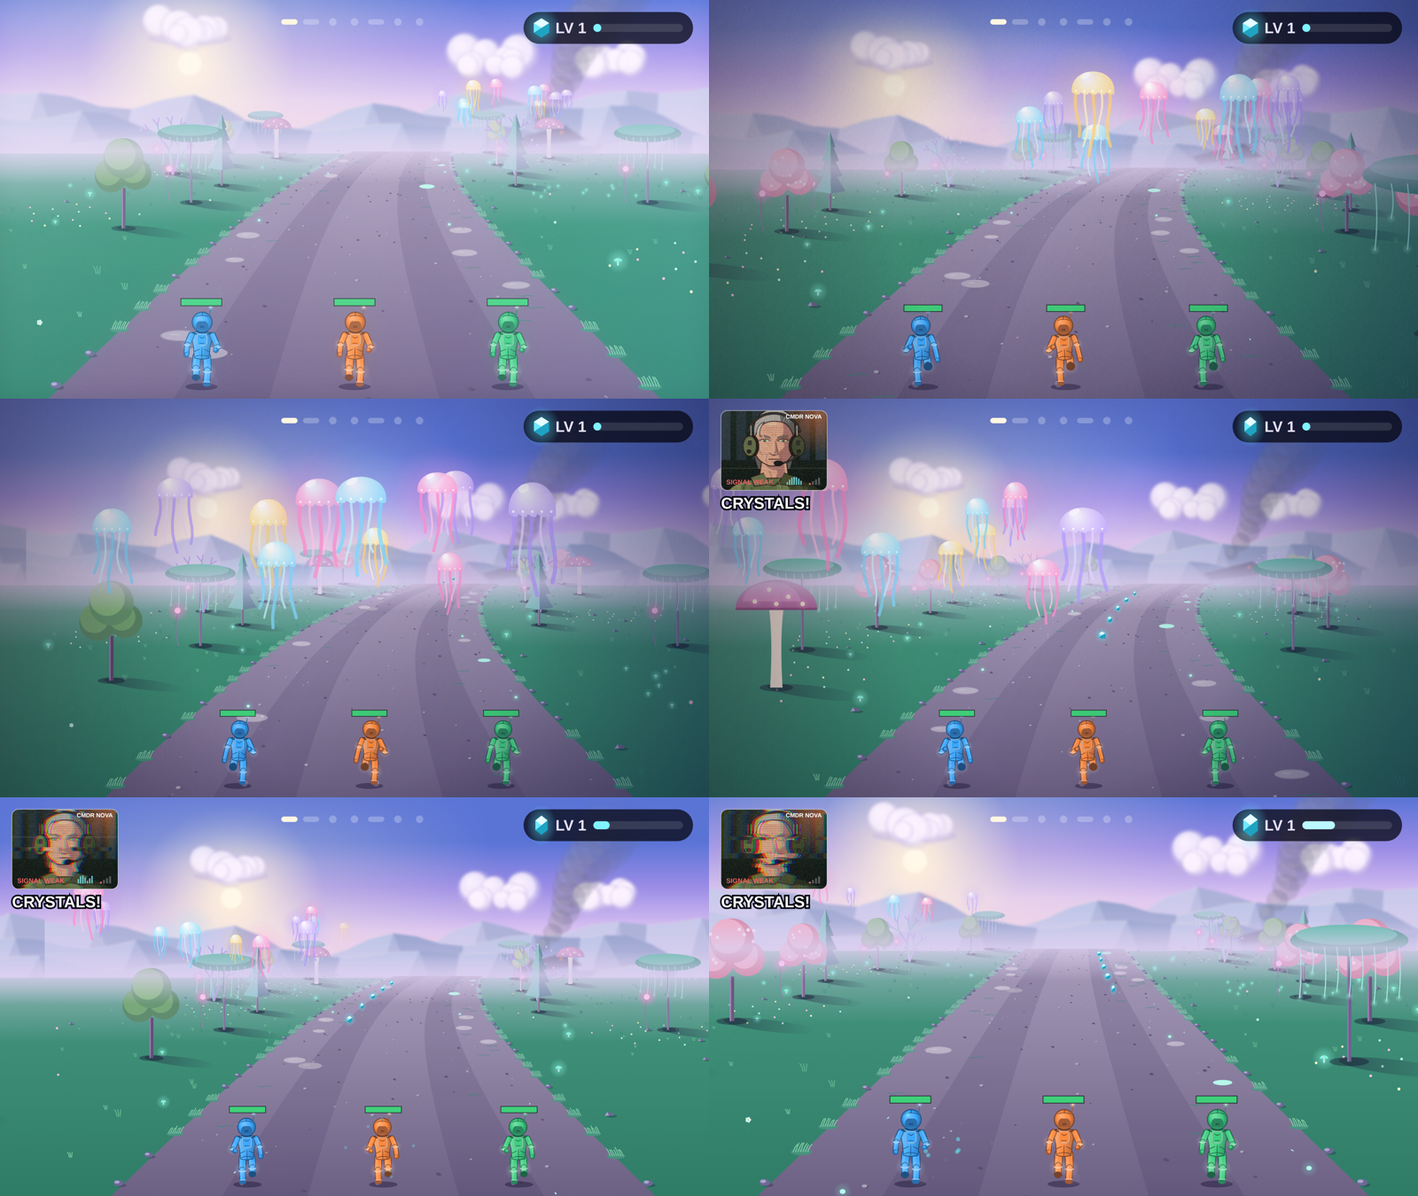
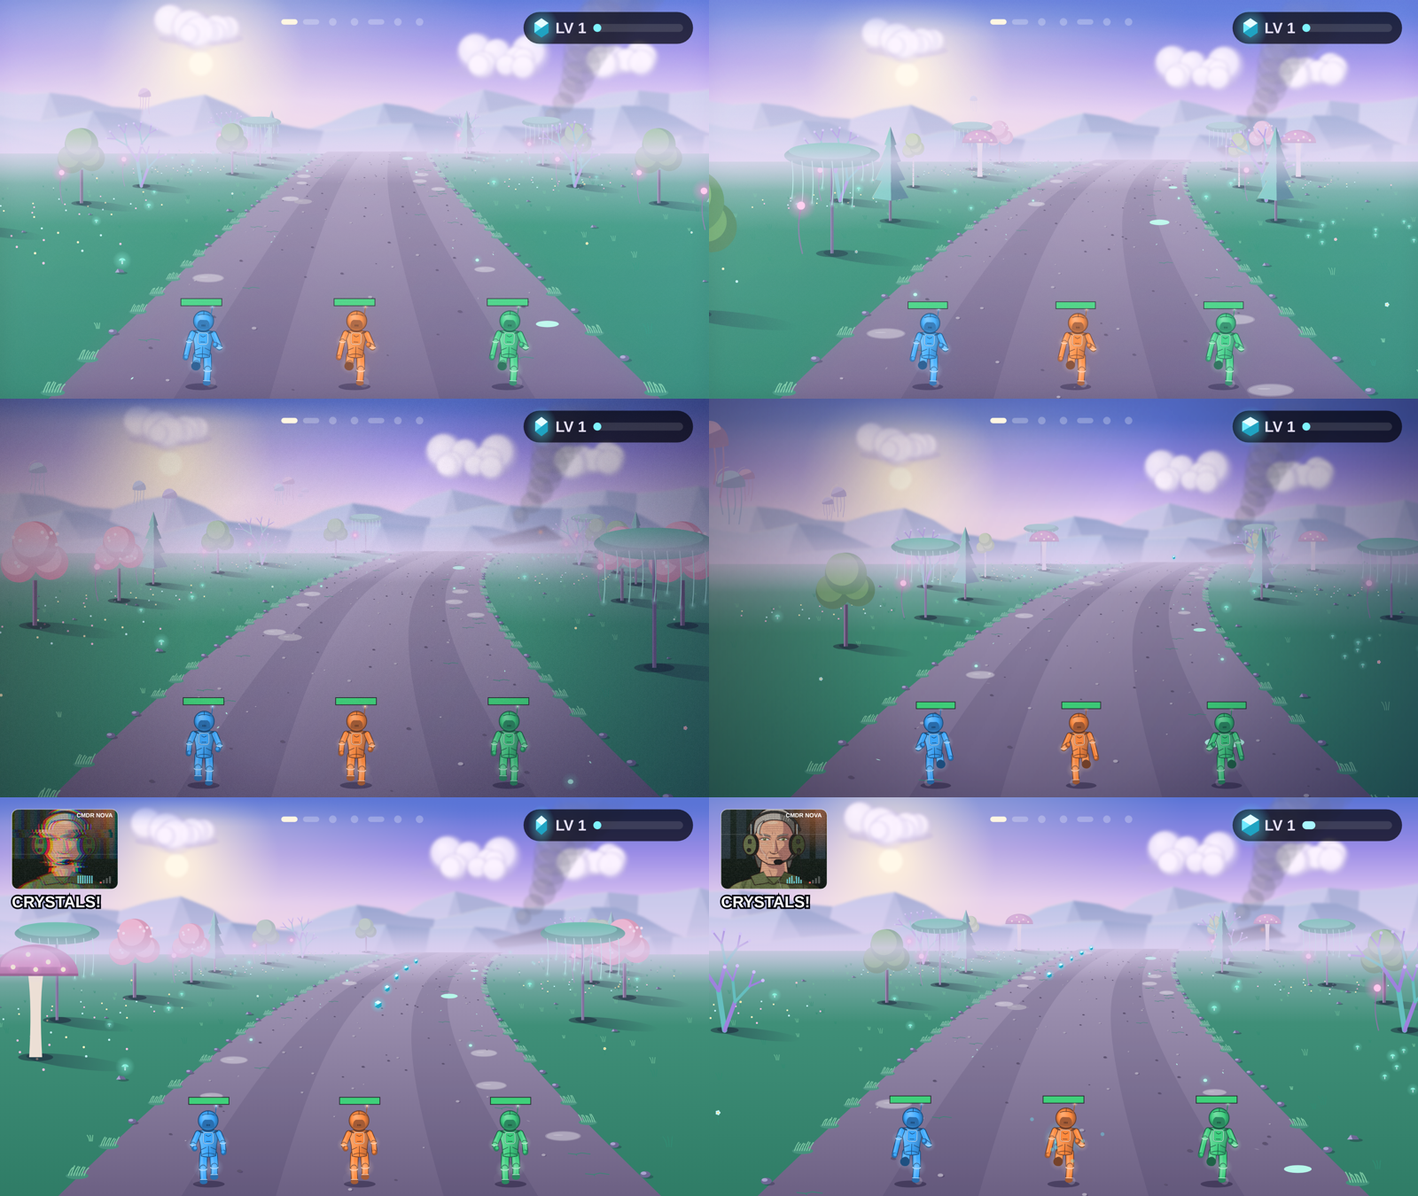
LKP corridor: sky jellies part of the world; the trumbler charges the herd
Sky jellies are things out in the world now, off the left of the path,
each drifting its own slow way (right and a little away) whether anyone
comes or not, drawn as the world is - flat tones, lit on top, the sun's
rim, fading into the haze. Running past, the view barely glances their
way.

The first glimmerbacks melt into the herd once it arrives. The
trumbler is new: a huge plated shell on six legs, a warm-coloured head
with a fan of a crest and curling horns - and it charges, up from the
bottom of the screen right past the crew, bellows behind the herd, and
chases them off to the right.

Claude-Session: https://claude.ai/code/session_01H7pxTnxTukKeeYRVqvmnkU

diff --git a/astra-park/src/games/lkp-critters.js b/astra-park/src/games/lkp-critters.js
@@ -351,81 +351,97 @@ export function herdMass(c, W, H, t, edge, dx, a = 1, scatter = 0){
   c.restore();
 }
 
-/* A trumbler: a great slow alien beast, elephant-ish - four pillar legs,
-   a huge domed back grown over with moss and little glowing crystals,
-   fan-like ear-fins that glow, a long ringed trunk ending in a flower of
-   a bell. Standing, at (x, y), s tall, facing right; breathing, its trunk
-   swaying. call 0..1: trumpeting - the trunk up, the bell open, the fins
-   flared, rings of sound going out. */
-export function trumbler(c, x, y, s, t, call = 0){
-  const u = s / 300, br = Math.sin(t * 1.1) * 3 * u, cl = Math.sin(Math.min(1, call) * Math.PI);
-  const skin = '#5f7fa8', dark = '#3b5378', lite = '#9bb6d8';
+/* A trumbler: a great alien beast, nothing like an elephant - a huge
+   domed shell of big plates, teal-green, on six thick legs, and up front
+   a broad warm-coloured head with a great fan of a crest and two curling
+   horns. Drawn as the world is: flat tones, lit on top, a rim of sun on
+   the left, its shadow under it. At (x, y) its feet, s tall, facing right
+   (and up the screen, charging away: turn 0..1). run: galloping, 0..1.
+   call 0..1: bellowing - the crest flared and glowing, the mouth open,
+   rings of sound. haze: how far into the haze. */
+export function trumbler(c, x, y, s, t, call = 0, run = 1, haze = 0, L = null){
+  const u = s / 300, ph = t * 9, bob = Math.abs(Math.sin(ph)) * 10 * u * run, cl = Math.sin(Math.min(1, call) * Math.PI);
+  const H_ = (a) => L ? mixHex(a, L.haze, haze) : a;
+  const shellD = H_('#2f6b62'), shellL = H_('#4f9a7e'), plate = H_('#79c49a'), skin = H_('#d9734a'), skinL = H_('#f0a060'), dark = H_('#7a3a2a'), crest = H_('#ffb04a');
   c.save();
-  c.fillStyle = 'rgba(20,15,45,.3)'; c.beginPath(); c.ellipse(x, y, 160 * u, 26 * u, 0, 0, TAU); c.fill();
-  c.translate(x, y);
-  /* legs: thick pillars, glowing toe pads */
-  for (const [lx, near] of [[-95, 0], [55, 0], [-70, 1], [80, 1]]){
-    c.fillStyle = near ? skin : dark; c.beginPath(); c.roundRect((lx - 22) * u, -120 * u, 44 * u, 120 * u, 16 * u); c.fill();
-    c.fillStyle = '#9ff0e0'; for (const k of [-12, 0, 12]) circ0(c, (lx + k) * u, -6 * u, 5 * u);
+  c.fillStyle = 'rgba(20,15,45,.35)'; c.beginPath(); c.ellipse(x - 20 * u, y, 190 * u, 30 * u, 0, 0, TAU); c.fill();
+  c.translate(x, y - bob);
+  /* six legs, galloping: far ones darker */
+  for (const [lx, far, k] of [[-120, 1, 0], [-20, 1, 2], [80, 1, 4], [-100, 0, 1], [0, 0, 3], [100, 0, 5]]){
+    const sw = Math.sin(ph + k * 1.05) * run, lift = Math.max(0, sw) * 26 * u;
+    c.fillStyle = far ? dark : skin;
+    c.beginPath(); c.roundRect((lx - 20 + sw * 16) * u, (-120) * u, 40 * u, (120 - lift / u) * u, 14 * u); c.fill();
+    c.fillStyle = far ? H_('#4a2418') : dark; c.beginPath(); c.ellipse((lx + sw * 16) * u, -lift - 4 * u, 24 * u, 10 * u, 0, 0, TAU); c.fill();
   }
-  /* the body: a great dome, breathing */
-  const g = c.createRadialGradient(-30 * u, -230 * u, 10 * u, 0, -170 * u, 170 * u);
-  g.addColorStop(0, lite); g.addColorStop(0.6, skin); g.addColorStop(1, dark);
-  c.fillStyle = g; c.beginPath(); c.ellipse(-10 * u, (-170 - br) * u * 1, 150 * u, (95 + br * 0.3) * u, 0, 0, TAU); c.fill();
-  /* moss along the top, little crystals growing out of it */
-  c.fillStyle = '#5fae7a';
-  for (let k = 0; k < 9; k++) circ0(c, (-120 + k * 28) * u, (-245 - br + Math.abs(k - 4) * 6) * u, 18 * u);
-  for (let k = 0; k < 4; k++){
-    const cx = (-80 + k * 45) * u, cy = (-265 - br + Math.abs(k - 1.5) * 8) * u;
-    glow(c, cx, cy - 10 * u, 22 * u, '#a8f4ff', 0.4 + 0.15 * Math.sin(t * 2 + k));
-    c.fillStyle = '#c8f8ff'; c.beginPath(); c.moveTo(cx - 6 * u, cy); c.lineTo(cx, cy - 26 * u); c.lineTo(cx + 6 * u, cy); c.closePath(); c.fill();
+  /* the shell: a great dome, dark under, lit on top, big plates over it */
+  c.fillStyle = shellD; c.beginPath(); c.ellipse(-10 * u, -190 * u, 175 * u, 110 * u, 0, 0, TAU); c.fill();
+  c.fillStyle = shellL; c.beginPath(); c.ellipse(-25 * u, -215 * u, 150 * u, 82 * u, 0, Math.PI, TAU); c.fill();
+  c.fillStyle = plate;
+  for (const [px, py, r] of [[-110, -230, 34], [-50, -270, 38], [20, -262, 36], [80, -225, 30], [-75, -185, 30], [0, -205, 32], [-140, -180, 24]]){
+    c.beginPath(); for (let k = 0; k < 6; k++){ const a = k / 6 * TAU + 0.5; c.lineTo((px + Math.cos(a) * r) * u, (py + Math.sin(a) * r * 0.7) * u); } c.closePath(); c.fill();
   }
-  /* a little tail */
-  c.strokeStyle = dark; c.lineWidth = 8 * u; c.lineCap = 'round';
-  c.beginPath(); c.moveTo(-155 * u, -170 * u); c.quadraticCurveTo(-180 * u, -140 * u + Math.sin(t * 2) * 8 * u, -172 * u, -110 * u); c.stroke();
-  /* the head, at the front */
-  const hx = 120 * u, hy = (-190 - br) * u;
-  /* ear-fins: fans, glowing at their ribs - flared when it calls */
-  c.save(); c.translate(hx - 20 * u, hy - 10 * u); c.rotate(-0.3 - 0.6 * cl + Math.sin(t * 0.9) * 0.05);
-  c.fillStyle = `rgba(150,210,255,${0.55 + 0.3 * cl})`;
-  c.beginPath(); c.moveTo(0, 0); for (let k = 0; k <= 6; k++){ const a = -Math.PI * 0.95 + k * 0.32; c.lineTo(Math.cos(a) * 90 * u, Math.sin(a) * 90 * u); } c.closePath(); c.fill();
-  c.strokeStyle = `rgba(220,250,255,${0.6 + 0.4 * cl})`; c.lineWidth = 3 * u;
-  for (let k = 0; k <= 6; k++){ const a = -Math.PI * 0.95 + k * 0.32; c.beginPath(); c.moveTo(0, 0); c.lineTo(Math.cos(a) * 88 * u, Math.sin(a) * 88 * u); c.stroke(); }
+  if (L){ c.strokeStyle = rgbaHex(L.rim, 0.6 * (1 - haze)); c.lineWidth = 5 * u; c.beginPath(); c.ellipse(-10 * u, -190 * u, 175 * u, 110 * u, 0, Math.PI * 1.02, Math.PI * 1.5); c.stroke(); }
+  /* the head, up front: broad, warm, lowered as it charges */
+  const hx = 175 * u, hy = -150 * u;
+  /* the crest: a great fan behind the head - flaring and glowing as it bellows */
+  c.save(); c.translate(hx - 30 * u, hy - 30 * u); c.rotate(-0.5 - 0.35 * cl);
+  if (cl > 0.05) glow(c, 0, -40 * u, 150 * u, '#ffd27a', 0.5 * cl);
+  for (let k = 0; k < 7; k++){
+    const a = -Math.PI * 0.85 + k * 0.28, r = (95 + 25 * cl) * u;
+    c.fillStyle = k % 2 ? crest : H_('#ff8a3a');
+    c.beginPath(); c.moveTo(0, 0); c.lineTo(Math.cos(a - 0.13) * r, Math.sin(a - 0.13) * r); c.lineTo(Math.cos(a + 0.13) * r, Math.sin(a + 0.13) * r); c.closePath(); c.fill();
+  }
   c.restore();
-  const hg = c.createRadialGradient(hx - 10 * u, hy - 20 * u, 5 * u, hx, hy, 70 * u); hg.addColorStop(0, lite); hg.addColorStop(1, skin);
-  c.fillStyle = hg; circ0(c, hx, hy, 62 * u);
-  /* its eye, sleepy-kind; shut tight when it calls */
-  c.fillStyle = '#1a2240';
-  if (cl > 0.3){ c.strokeStyle = '#1a2240'; c.lineWidth = 4 * u; c.beginPath(); c.arc(hx + 22 * u, hy - 12 * u, 9 * u, Math.PI * 1.1, Math.PI * 1.9); c.stroke(); }
-  else { circ0(c, hx + 22 * u, hy - 12 * u, 8 * u); c.fillStyle = '#ffffff'; circ0(c, hx + 19 * u, hy - 15 * u, 3 * u); }
-  /* the trunk: ringed, swaying down - or flung up, calling */
-  const pts = [];
-  for (let k = 0; k <= 10; k++){
-    const v = k / 10, sway = Math.sin(t * 1.3 + v * 2) * 10 * u * (1 - cl);
-    const down = [hx + 45 * u + v * 40 * u + sway, hy + 20 * u + v * 150 * u - v * v * 40 * u];
-    const up = [hx + 50 * u + v * 70 * u, hy - v * 170 * u + v * v * 30 * u];
-    pts.push([down[0] + (up[0] - down[0]) * cl, down[1] + (up[1] - down[1]) * cl]);
-  }
-  for (let k = 0; k < pts.length - 1; k++){
-    const w = (30 - k * 1.8) * u;
-    c.strokeStyle = k % 2 ? skin : mixHex('#5f7fa8', '#3b5378', 0.4); c.lineWidth = w;
-    c.beginPath(); c.moveTo(pts[k][0], pts[k][1]); c.lineTo(pts[k + 1][0], pts[k + 1][1]); c.stroke();
-  }
-  /* its bell: a flower of a tip, petals open wide when it calls */
-  const [bx, by] = pts[10], open = 0.35 + 0.65 * cl;
-  for (let k = 0; k < 5; k++){
-    const a = -Math.PI / 2 + (k - 2) * 0.55 * open + (cl > 0 ? 0 : Math.PI);
-    c.fillStyle = k % 2 ? '#ff9fd0' : '#ffc6e8';
-    c.beginPath(); c.ellipse(bx + Math.cos(a) * 14 * u, by + Math.sin(a) * 14 * u, 16 * u, 8 * u, a, 0, TAU); c.fill();
-  }
-  c.fillStyle = '#fff1c4'; circ0(c, bx, by, 8 * u);
-  /* rings of sound, going out from it */
-  if (call > 0 && call < 1.6){
-    for (let k = 0; k < 4; k++){
-      const r = (call * 1.2 - k * 0.18); if (r <= 0) continue;
-      c.strokeStyle = `rgba(255,240,250,${Math.max(0, 0.7 - r * 0.45)})`; c.lineWidth = 6 * u;
-      c.beginPath(); c.arc(bx, by, r * 260 * u, -1.2, 1.2); c.stroke();
-    }
+  c.fillStyle = skin; c.beginPath(); c.ellipse(hx, hy, 72 * u, 58 * u, 0.2, 0, TAU); c.fill();
+  c.fillStyle = skinL; c.beginPath(); c.ellipse(hx - 12 * u, hy - 18 * u, 50 * u, 32 * u, 0.2, 0, TAU); c.fill();
+  /* two horns, curling forward */
+  c.strokeStyle = H_('#fff1d6'); c.lineWidth = 14 * u; c.lineCap = 'round';
+  for (const d of [-1, 1]){ c.beginPath(); c.moveTo(hx + 20 * u, hy - 30 * u + d * 8 * u); c.quadraticCurveTo(hx + 80 * u, hy - 60 * u + d * 12 * u, hx + 95 * u, hy - 20 * u + d * 10 * u); c.stroke(); }
+  /* the mouth: a line - wide open when it bellows */
+  c.fillStyle = H_('#5a2418');
+  c.beginPath(); c.ellipse(hx + 48 * u, hy + 22 * u, 22 * u, (4 + 18 * cl) * u, 0.15, 0, TAU); c.fill();
+  /* its eye: small and fierce-ish - kind, really */
+  c.fillStyle = '#1a1020'; circ0(c, hx + 22 * u, hy - 8 * u, 7 * u); c.fillStyle = '#ffffff'; circ0(c, hx + 20 * u, hy - 10 * u, 2.5 * u);
+  /* rings of sound */
+  if (call > 0 && call < 1.6) for (let k = 0; k < 4; k++){
+    const r = call * 1.3 - k * 0.2; if (r <= 0) continue;
+    c.strokeStyle = `rgba(255,240,220,${Math.max(0, 0.75 - r * 0.45)})`; c.lineWidth = 8 * u;
+    c.beginPath(); c.arc(hx + 70 * u, hy + 20 * u, r * 320 * u, -1.1, 1.1); c.stroke();
   }
   c.restore();
 }
+
+/* A sky jelly out in the world (lkp-game.js: a thing, kind 'skyjelly',
+   drifting its own way): drawn the way the world is - flat colours, dark
+   under and lit on top, a rim of the low sun on its left, see-through,
+   fading into the haze with distance like the trees. th: lane, rel, alt
+   (how high: of the screen, at its depth), size, n. L: the palette. */
+export function skyJelly(c, W, H, th, t, L){
+  if (!L || th.rel > 1.2) return;
+  const p = P(th.lane, th.rel, W, H), s = H * 0.1 * p.k * (th.size || 1);
+  const haze = Math.min(0.75, Math.max(0, th.rel) * 0.85), a = Math.max(0, Math.min(1, (1.2 - th.rel) / 0.35));
+  if (a <= 0.01) return;
+  const bob = Math.sin(t * 0.5 + th.n * 1.7) * s * 0.12, x = p.x, y = p.y - H * th.alt * p.k + bob;
+  const base = ['#d7a6d8', '#a9c4e8', '#c4b4ea'][th.n % 3], col = (k, m = 0) => mixHex(mixHex(base, k > 0 ? '#ffffff' : '#3a3466', Math.abs(k)), L.haze, Math.min(1, haze + m));
+  const pulse = Math.sin(t * 1.1 + th.n), w = s * (1 + 0.05 * pulse), h = s * (0.6 - 0.04 * pulse);
+  c.save(); c.globalAlpha = a * 0.85;
+  /* ribbons: thin, trailing, swaying slowly */
+  c.lineCap = 'round';
+  for (let k = 0; k < 4; k++){
+    const ox = (k / 3 - 0.5) * w * 0.7, len = s * (1.0 + 0.35 * (k % 2));
+    c.strokeStyle = col(-0.15, 0.1); c.lineWidth = Math.max(1, s * 0.045);
+    c.beginPath(); c.moveTo(x + ox, y + h * 0.1);
+    for (let j = 1; j <= 6; j++){ const v = j / 6; c.lineTo(x + ox + Math.sin(t * 1.2 + k + v * 3) * s * 0.08 * v, y + h * 0.1 + v * len); }
+    c.stroke();
+  }
+  /* the bell: shaded underneath, lit on top - two flat tones */
+  c.fillStyle = col(-0.25);
+  c.beginPath(); c.moveTo(x - w * 0.5, y + h * 0.12); c.bezierCurveTo(x - w * 0.55, y - h * 1.1, x + w * 0.55, y - h * 1.1, x + w * 0.5, y + h * 0.12); c.quadraticCurveTo(x, y + h * 0.32, x - w * 0.5, y + h * 0.12); c.fill();
+  c.fillStyle = col(0.18);
+  c.beginPath(); c.moveTo(x - w * 0.46, y - h * 0.05); c.bezierCurveTo(x - w * 0.5, y - h * 1.05, x + w * 0.25, y - h * 1.08, x + w * 0.3, y - h * 0.55); c.quadraticCurveTo(x - w * 0.1, y - h * 0.3, x - w * 0.46, y - h * 0.05); c.fill();
+  /* the sun's rim, on its left */
+  c.strokeStyle = rgbaHex(L.rim, 0.55 * (1 - haze)); c.lineWidth = Math.max(1, s * 0.03);
+  c.beginPath(); c.ellipse(x, y - h * 0.35, w * 0.5, h * 0.78, 0, Math.PI * 0.95, Math.PI * 1.45); c.stroke();
+  c.restore();
+}
+const rgbaHex = (h, a) => `rgba(${[1, 3, 5].map(i => parseInt(h.slice(i, i + 2), 16)).join(',')},${a})`;

diff --git a/astra-park/src/games/lkp-game.js b/astra-park/src/games/lkp-game.js
@@ -21,7 +21,7 @@ import { Warden } from './lkp-boss.js';
 import { Scout } from './lkp-scout.js';
 import { Intro, START } from './lkp-intro.js';
 import { worldShip, worldWreck } from './lkp-places.js';
-import { glowfins, glimmerback, driftJellies, DRIFT, herdMass, trumbler, chimeblooms, jellycrawl } from './lkp-critters.js';
+import { glowfins, glimmerback, skyJelly, DRIFT, herdMass, trumbler, chimeblooms, jellycrawl } from './lkp-critters.js';
 import { worldLake, worldLakeAhead, wading, healRipple, LAKE, worldMeadow, shipFire, pondBeauty, SITE, worldPatch } from './lkp-crashsite.js';
 import { Depot } from './lkp-depot.js';
 import { Treasure } from './lkp-treasure.js';
@@ -125,8 +125,8 @@ export const REST_MIN = 12, VIEW_EASE = 2.5;
 /* The look up at the sky, in the first corridor: how far along (from the
    crew at the start) and how long (seconds). */
 export const VISTA_AT = 5.5, VISTA = DRIFT.for;
-/* (the camera tipping up a little while they're overhead: from, till - seconds in) */
-const UP_FROM = 3.6, UP_TILL = 10.5;
+/* The sky jellies: how many, and their drift (lanes a second, to the right). */
+export const JELLIES = { n: 9, drift: 0.05 };
 /* The herd of glimmerbacks (seconds from when it starts): first just one,
    trotting up alongside the crew, chirping; two more at SCOUTS[1], three
    more after that - and then at mass the rest of them, sweeping in
@@ -135,11 +135,13 @@ const UP_FROM = 3.6, UP_TILL = 10.5;
    when a trumbler, stood off on the left, trumpets - and they scatter,
    off to the right and gone by end. edge: the herd's left edge (lanes);
    push: how far over everyone's pushed (0..1). The trumbler stands at
-   TRUMBLER (lane), seen depth `at` away when it calls. */
+   The trumbler charges in from behind (from the bottom of the screen)
+   CHARGE seconds before it calls, right behind the herd, and chases
+   them off to the right. */
 export const HERD = { mass: 6, full: 1.8, call: 10.8, scatter: 1.6, end: 13, edge: -0.15, push: 1 };
 /* The first few, each its own: when it turns up, and where it trots along (lane, depth). */
 export const SCOUTS = [[0, 1.05, 0.04], [2, 1.35, 0.01], [2.3, 0.95, 0.12], [4, 1.2, 0.15], [4.2, 1.6, 0.06], [4.5, 1.0, -0.015]];
-export const TRUMBLER = { lane: -3.4, at: 0.75 };
+export const CHARGE = 1.8;
 /* (and when the first corridor's squeeze comes, seconds in: after all that) */
 const SQUEEZE_AT = 46;
 /* Something big, far off, while they rest - never seen: the woods on
@@ -411,8 +413,6 @@ class LastKnownPosition {
       squeeze: (s) => {
         add(s - HERD.mass - HERD.full, { kind: 'herd' });
         add(s - 1, { kind: 'narrow' });
-        /* (the trumbler, off on the left: there to be seen as it calls, and passed after) */
-        add(s - HERD.mass - HERD.full + HERD.call + (TRUMBLER.at - RUN) / (SPEED * squeeze), { kind: 'trumbler', lane: TRUMBLER.lane });
         crystalLine(s + 0.5, -0.65, 14);
         add(s + 10, { kind: 'wide' });
         ROAD.spans.push({ d0: at(s + 11), d1: at(s + 18.5), half: WIDE });
@@ -474,6 +474,14 @@ class LastKnownPosition {
       /* (her story's told in the opening now, on the radio: lkp-intro.js answer) */
       /* then: look up! - the sky, and what lives up there (_vista) */
       this.things.push({ d: atD(VISTA_AT), kind: 'vista' });
+      /* ...a drift of sky jellies, out there whether anyone comes or not:
+         off to the left of the path, high up, going their own slow way -
+         drifting right and a little away, on the wind */
+      for (let k = 0; k < JELLIES.n; k++){
+        const hs = (n) => { const v = Math.sin((k + n) * 127.1 + 311.7) * 43758.5453; return v - Math.floor(v); };
+        this.things.push({ d: atD(VISTA_AT + 0.2 + 1.6 * hs(1)), kind: 'skyjelly', lane: -1.5 - 3.0 * hs(2), alt: 0.45 + 0.3 * hs(3),
+          vl: JELLIES.drift * (0.7 + 0.6 * hs(4)), vd: 0.006 + 0.01 * hs(5), size: 0.8 + 0.5 * hs(6), n: k });
+      }
       /* and only then, crystals to catch, picking up speed */
       const lineD = (dist, lane, k = 5) => { for (let i = 0; i < k; i++) this.things.push({ d: atD(dist + i * 0.09), kind: 'crystal', lane }); };
       const arcD = (dist, dir) => { for (let k = 0; k < 7; k++) this.things.push({ d: atD(dist + k * 0.1), kind: 'crystal', lane: dir * Math.sin(k / 6 * Math.PI) * 0.7 }); };
@@ -552,7 +560,10 @@ class LastKnownPosition {
     const rp = this.rest && this.rest.phase;
     this.viewDown = ease(this.viewDown, rp === 'heal' && this.rest.t > 2.5, VIEW_EASE);
     this.viewFar = ease(this.viewFar, rp === 'far', 2.2);
-    this.viewUp = ease(this.viewUp, !!this.vista && this.vista.t > UP_FROM && this.vista.t < UP_TILL, 1.8);
+    /* (barely a glance their way, as the nearest of the sky jellies drift by) */
+    const jl = this.things.find(t => t.kind === 'skyjelly' && t.d - this.z > 0.12 && t.d - this.z < 0.45);
+    this.viewUp = ease(this.viewUp, !!jl, 2.5);
+    if (jl) this.glanceSide = Math.sign(jl.lane) || -1;
     if (this.vista){ this.vista.t += dt; if (this.vista.t >= VISTA) this.vista = null; }
     this.viewHerd = 0;
     this.t += dt;
@@ -666,6 +677,8 @@ class LastKnownPosition {
     }
     else if (seg.kind === 'room' && seg.t >= seg.len) this._next();
     this.things = this.things.filter(th => th.d + (th.len || 0) - this.z > -0.15);
+    /* (the sky jellies: going their own way, whatever we do) */
+    for (const th of this.things) if (th.kind === 'skyjelly'){ th.lane += th.vl * dt; th.d += th.vd * dt; }
     this._stepBits(dt);
   }
 
@@ -815,8 +828,11 @@ class LastKnownPosition {
     SCOUTS.forEach(([at, lane0, rel0], j) => {
       const u = (h.t - at) / 1.1; if (u <= 0) return;
       const come = 1 - Math.pow(1 - Math.min(1, u), 3), go = m.scatter;
-      const lane = lane0 + 2.6 * (1 - come) + 7 * go * go * (0.8 + 0.4 * hs(j + 40)), rel = rel0 + 0.01 * Math.sin(h.t * 2 + j) + go * go * 0.2;
-      out.push({ rel, lane, side: Math.min(1, go * 2), n: 100 + j, deep: 0, hop: 1 - go });
+      /* (once the rest arrive: off into the mass, and lost in it) */
+      const melt = Math.max(0, Math.min(1, (h.t - HERD.mass - 0.5) / 1.4));
+      if (melt >= 1) return;
+      const lane = lane0 + 2.6 * (1 - come) + 0.9 * melt * melt, rel = rel0 + 0.01 * Math.sin(h.t * 2 + j) + 0.1 * melt;
+      out.push({ rel, lane, side: 0, n: 100 + j, deep: melt * 0.6, hop: 1 - melt, a: 1 - melt });
     });
     /* the clear ones: along the herd's near edge (by the crew), and its
        front rows (nearest us), each its own; the rest is the mass */
@@ -828,6 +844,18 @@ class LastKnownPosition {
       out.push({ rel, lane, side: Math.min(1, go * 2), n: j, deep: front ? 0 : 0.1 });
     }
     return out;
+  }
+  /* The trumbler, charging: up from behind the camera, in behind the
+     herd, bellowing, then on after them off to the right. Where it is
+     (lane, rel), or null. */
+  trumblerAt(){
+    const h = this.herd; if (!h) return null;
+    const u = (h.t - (HERD.call - CHARGE)) / CHARGE; if (u <= 0) return null;
+    /* (to call: up the screen and in; after: on and away right, after them) */
+    const a = Math.min(1, u), b = Math.max(0, u - 1);
+    const rel = -0.36 + 0.54 * (1 - (1 - a) * (1 - a)) + 0.3 * b, lane = 0.25 + 0.2 * a + 5 * b * b;
+    if (lane > 8) return null;
+    return { rel, lane };
   }
   /* The herd's mass, now: how far it's shifted (dx lanes: coming in from
      the right, or streaming off right), how much it's scattered (0..1),
@@ -1309,9 +1337,9 @@ class LastKnownPosition {
          above, the crew still running small below - and panning along
          slowly with the jellies as they drift over) */
       if (up > 0){
-        const vt = this.vista ? this.vista.t : UP_TILL, s = 1 - 0.14 * up, pan = W * 0.05 * up * Math.max(0, Math.min(1, (vt - UP_FROM) / (UP_TILL - UP_FROM)));
+        const s = 1 - 0.05 * up, pan = -(this.glanceSide || -1) * W * 0.025 * up;
         c.translate(W / 2 + pan, H * 0.98); c.scale(s, s); c.translate(-W / 2, -H * 0.98);
-        SKY.above = H * 0.25 * up; SKY.wide = W * 0.2 * up;
+        SKY.above = H * 0.08 * up; SKY.wide = W * 0.06 * up;
       }
       /* (down: their feet brought up the screen, closer - the water round them filling the view) */
       if (dn > 0){ const ay = P(0, RUN, W, H).y, z = 1 + 0.45 * dn, sy = ay + (H * 0.62 - ay) * dn; c.translate(W / 2, sy); c.scale(z, z); c.translate(-W / 2, -ay); }
@@ -1396,6 +1424,7 @@ class LastKnownPosition {
     if (this.depot) this.depot.items(items);
     if (this.ride) this.ride.items(items);
     if (this.herd && this.herd.t >= HERD.mass) items.push({ kind: 'herdMass', rel: 0.66 });
+    const tb = this.trumblerAt(); if (tb) items.push({ kind: 'trumbler', rel: tb.rel, lane: tb.lane, tb });
     for (const f of this._flock()) items.push({ kind: 'herd1', rel: f.rel, lane: f.lane, f });
     /* (the opening can stand them somewhere else, walking: introCrew) */
     if (this.introCrew) for (const ic of this.introCrew){
@@ -1412,8 +1441,7 @@ class LastKnownPosition {
       this._drawItem(c, it, W, H);
       if (low) c.restore();
     }
-    /* the sky jellies, drifting over on their own way */
-    if (this.vista) driftJellies(c, W, H, this.t, this.vista.t);
+
     /* on the zip line: each hanging from the cable, or the feet above */
     if (this.zip) this.zip.drawRiders(c, W, H, (i, x, y, h, a) => {
       c.save(); c.translate(x, y); c.rotate(a);
@@ -1502,8 +1530,13 @@ class LastKnownPosition {
       case 'patch': worldPatch(c, W, H, it.lane, it.rel, this.t, PAL.world); break;
       case 'crawler': if (!it.gone){ const q = P(it.lane, it.rel, W, H); jellycrawl(c, q.x, q.y, H * 0.32 * q.k, this.t, it.walk, it.fly); } break;
       case 'herdMass': { const m = this.herdMassAt(); herdMass(c, W, H, this.t, HERD.edge + 0.12, m.dx, m.a, m.scatter); break; }
-      case 'trumbler': { const call = this.trumpT != null ? (this.t - this.trumpT) / 1.6 : 0; trumbler(c, p.x, p.y, H * 0.5 * p.k, this.t, call > 0 && call < 1.6 ? call : 0); break; }
-      case 'herd1': if (it.rel > -0.12) glimmerback(c, p.x, p.y, H * 0.11 * p.k * (1 + 0.5 * it.f.deep), this.t + it.f.n * 0.37, it.f.side, it.f.deep, it.f.hop || 0); break;
+      case 'skyjelly': skyJelly(c, W, H, it, this.t, PAL.world); break;
+      case 'trumbler': { const call = this.trumpT != null ? (this.t - this.trumpT) / 1.6 : 0; trumbler(c, p.x, p.y, H * 0.62 * p.k, this.t, call > 0 && call < 1.6 ? call : 0, 1, Math.min(0.6, Math.max(0, it.rel) * 0.8), PAL.world); break; }
+      case 'herd1': if (it.rel > -0.12 && (it.f.a ?? 1) > 0.01){
+        c.save(); c.globalAlpha = it.f.a ?? 1;
+        glimmerback(c, p.x, p.y, H * 0.11 * p.k * (1 + 0.5 * it.f.deep), this.t + it.f.n * 0.37, it.f.side, it.f.deep, it.f.hop || 0);
+        c.restore();
+      } break;
     }
   }
 
